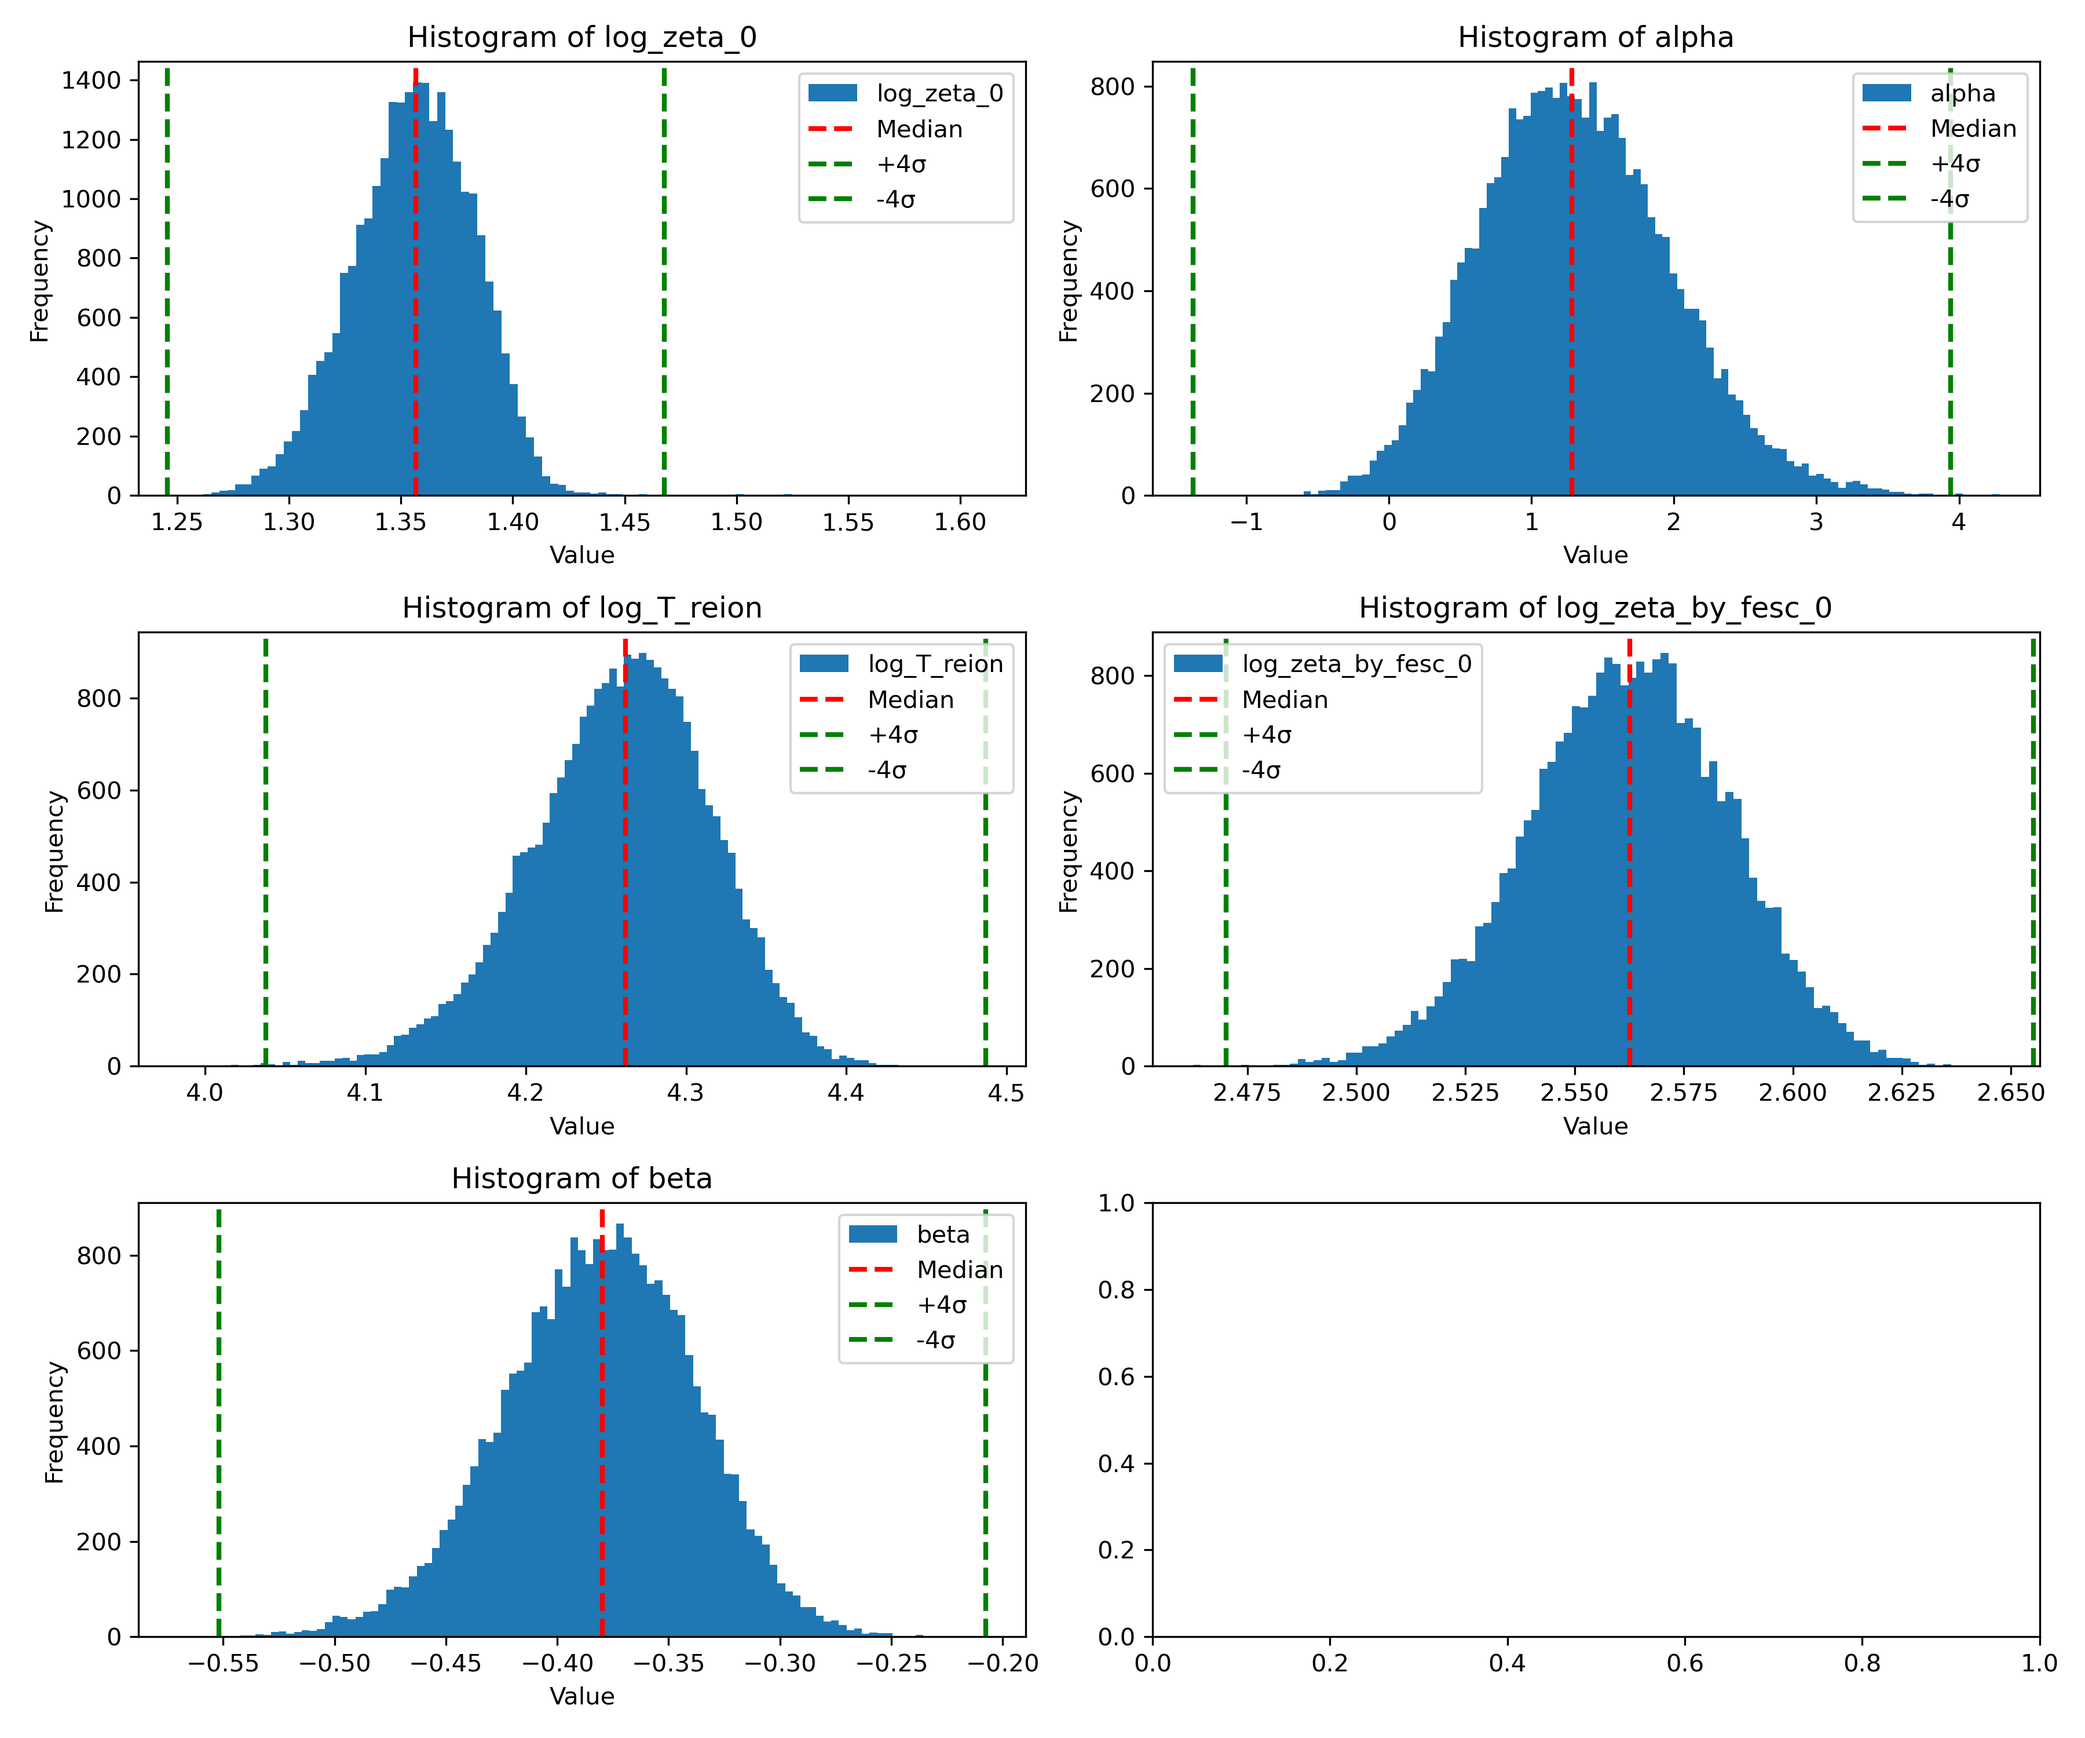
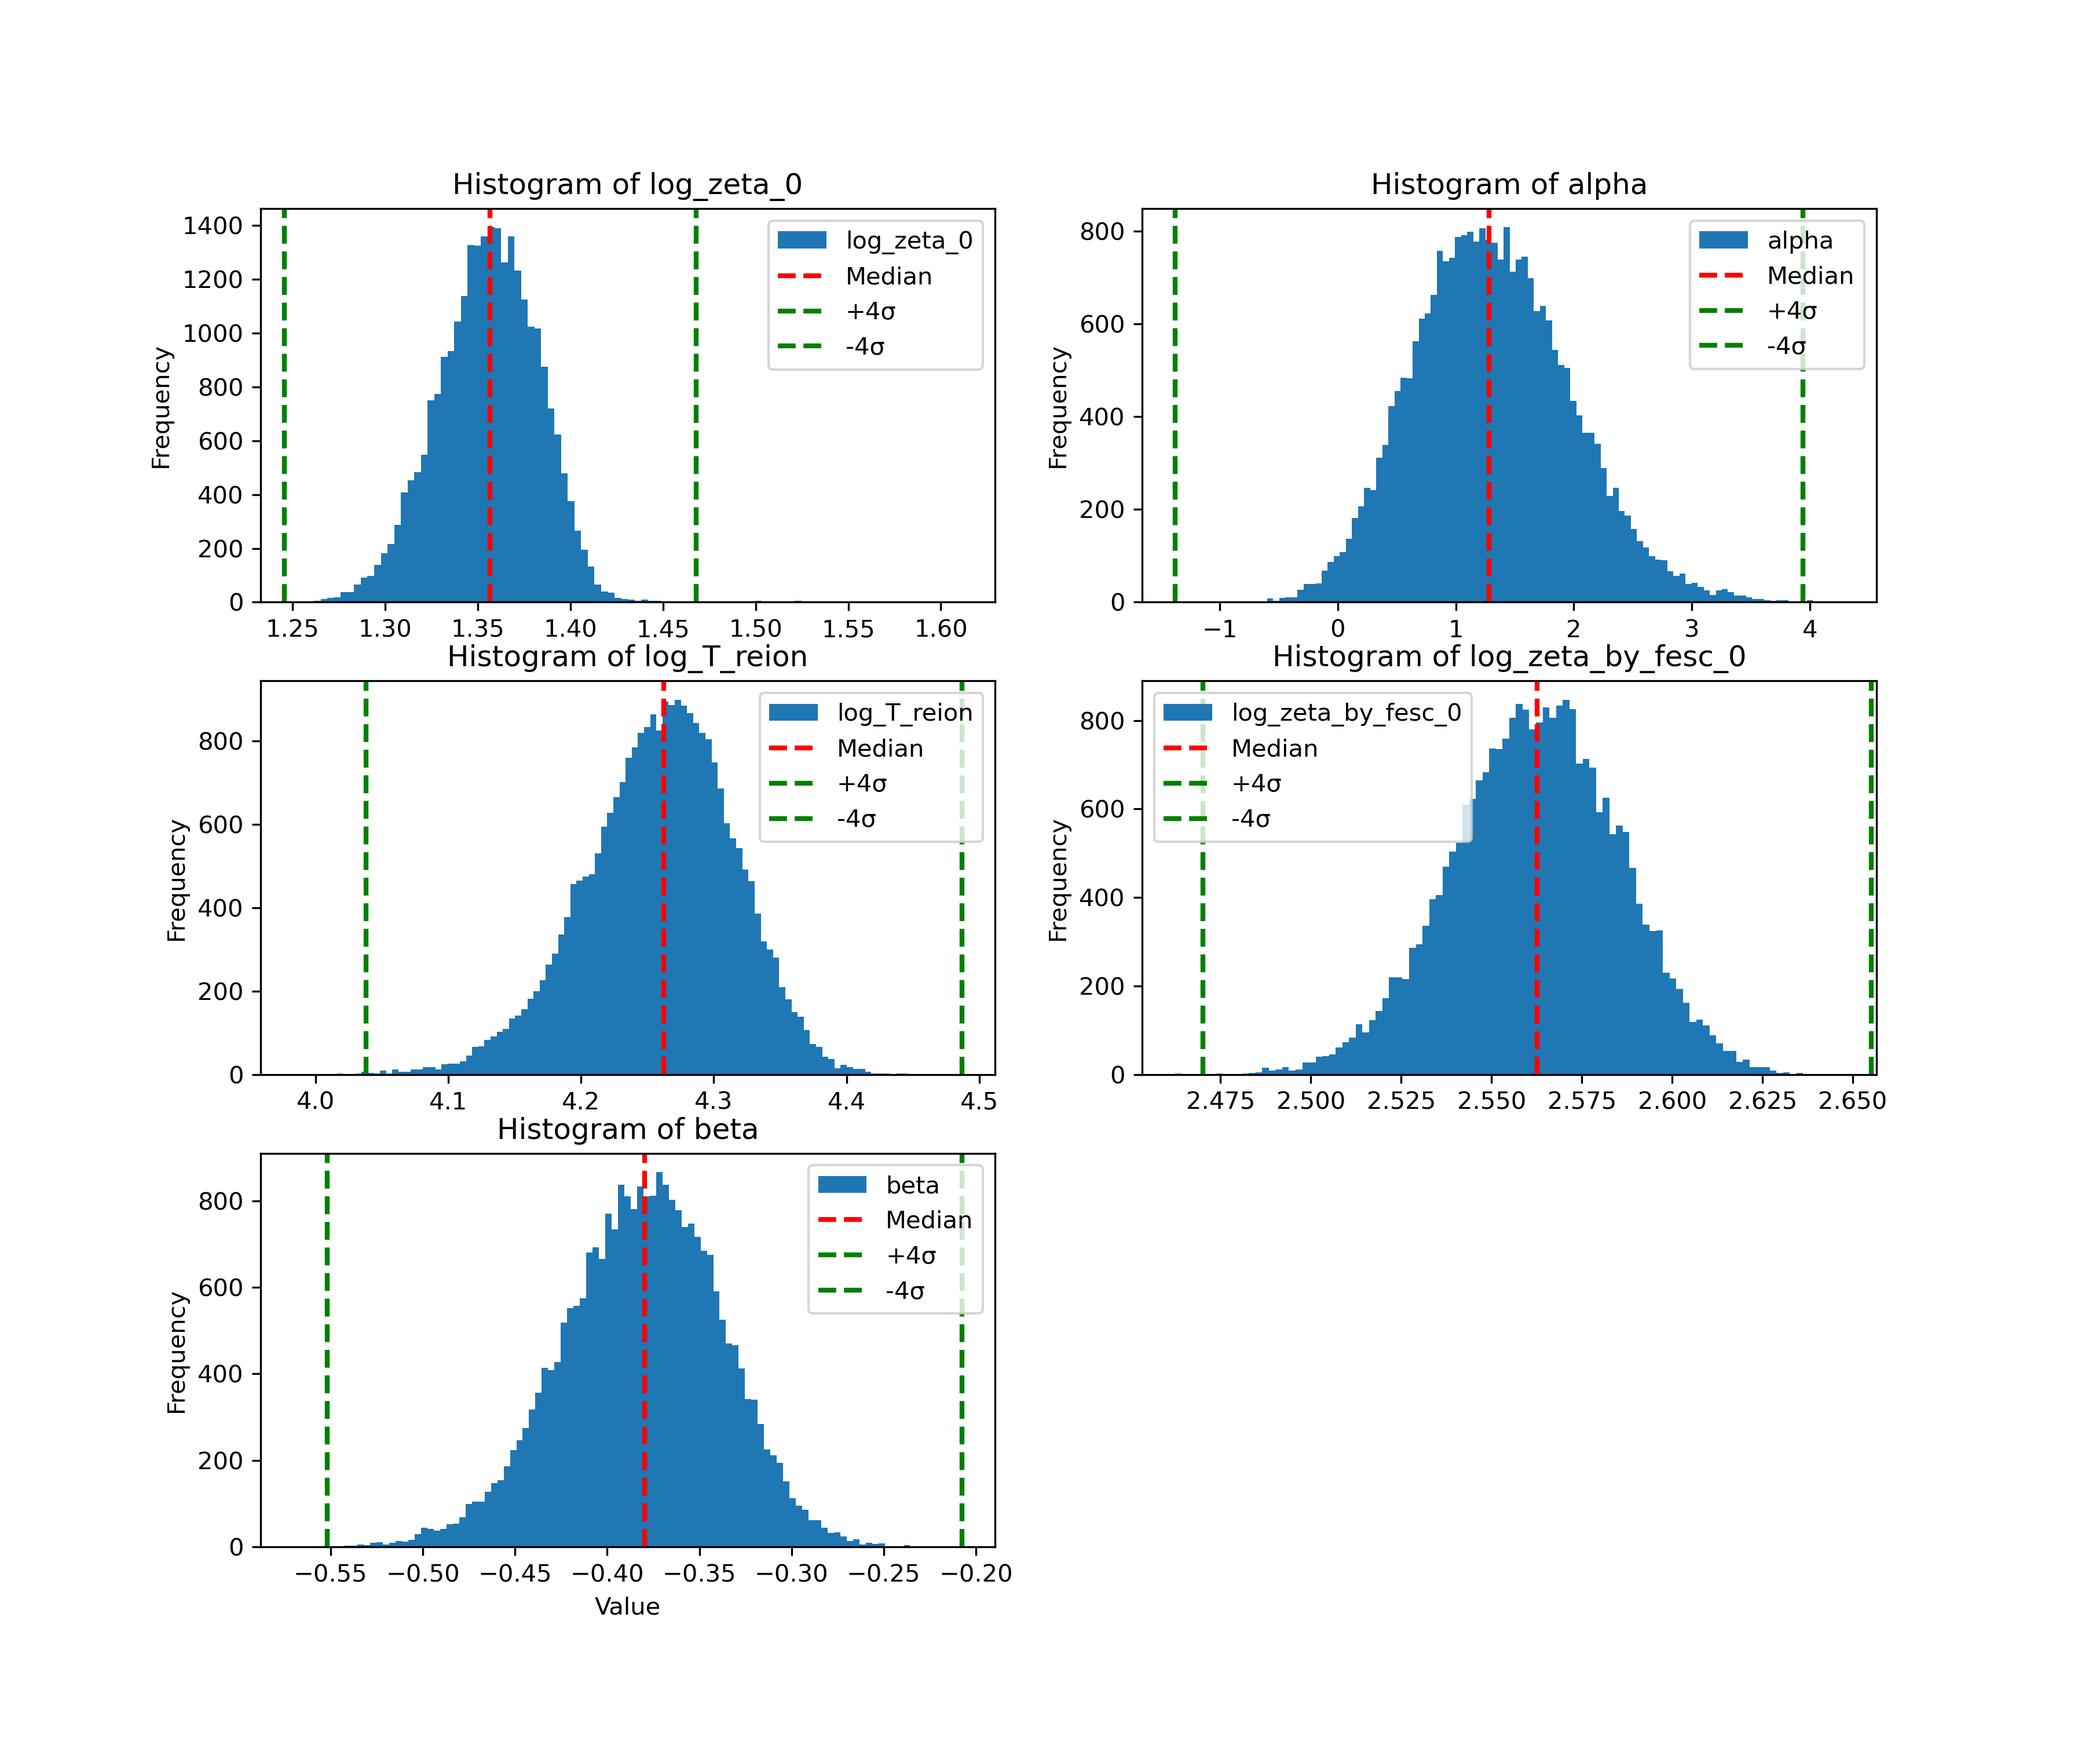
new plots

diff --git a/development/plot_chains.py b/development/plot_chains.py
@@ -9,8 +9,29 @@ chainsdir = '../main/chains'
 fileroot = 'full_simulation/cobaya-test-256-4-z0-M0-log'
 
 samples = loadMCSamples(chainsdir + '/' + fileroot, settings={'ignore_rows':burn_in,})
+#samples2 = loadMCSamples('chains/cobaya-root2sigma-256-4-z0-M0-log', settings={'ignore_rows':burn_in,})
 
 column_names = ['log_zeta_0', 'alpha', 'log_T_reion', 'log_zeta_by_fesc_0', 'beta']
+
+#Plot Chains
+
+fig, axes = plt.subplots(5, 1, figsize=(15, 15), sharex=True)
+
+for index, ax in enumerate(axes):
+    ax.plot(samples.samples[:, index], label='1 Sigma', alpha=0.6)
+    #ax.plot(samples2.samples[:, index], label='$\sqrt{2} Sigma$', alpha=0.6)
+    ax.set_title(f'{column_names[index]}', fontsize=12)
+    ax.set_ylabel('Value')
+    ax.grid(True)
+    if index == 4: 
+        ax.set_xlabel('Sample index')
+
+axes[-1].legend()
+
+plt.savefig('combined_chains.png', dpi=300)
+plt.show()
+
+#Plot Histograms
 
 fig, axes = plt.subplots(3, 2, figsize=(12, 10))
 axes = axes.flatten()
@@ -29,11 +50,16 @@ for i in range(5):
     ax.axvline(median + sigma_multiplier * std, color='g', linestyle='dashed', linewidth=2, label=f'+{sigma_multiplier}σ')
     ax.axvline(median - sigma_multiplier * std, color='g', linestyle='dashed', linewidth=2, label=f'-{sigma_multiplier}σ')
     
-    ax.set_xlabel('Value')
     ax.set_ylabel('Frequency')
     ax.set_title(f'Histogram of {column_names[i]}')
+
+    if i >= 4:
+        ax.set_xlabel('Value')
+
     ax.legend()
 
-plt.tight_layout()
+if len(axes) > 5:
+    fig.delaxes(axes[5])
+
 plt.savefig('histogram_all_columns.png', dpi=300)
 plt.show()
